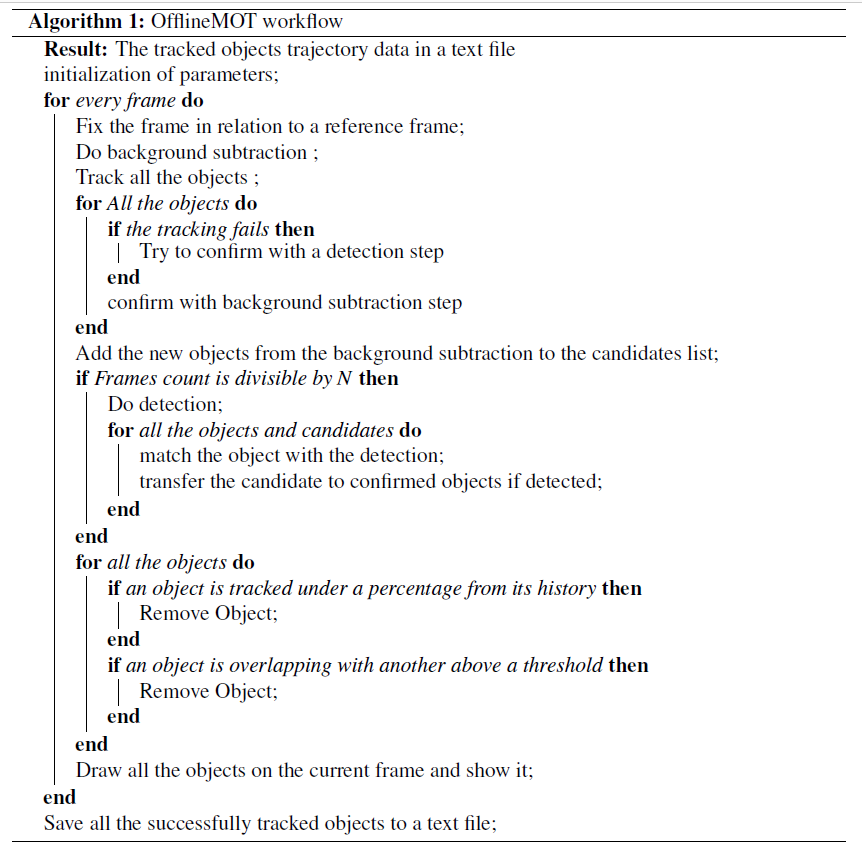
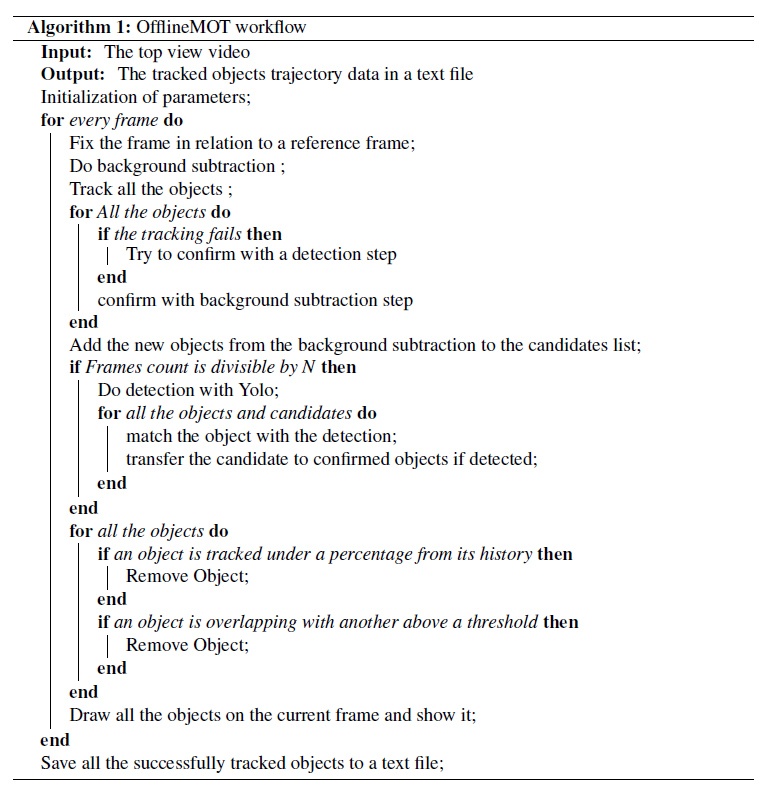
paper editing

Changed region(s): [[0.0, 0.0, 0.9909, 0.9987]]

diff --git a/paper/paper.md b/paper/paper.md
@@ -10,8 +10,13 @@ authors:
   - name: Yasin Maan Yousif
     orcid: 0000-0002-5282-7259
     affiliation: 1
+  - name: Awad Mukbil
+    affiliation: 1
+  - name: Jörg Müller
+    affiliation: 1
+
 affiliations:
- - name: Technische Universität Clausthal, Clausthal-Zellerfeld, Germany.
+ - name: Institut für Informatik, Technische Universität Clausthal 38678, Clausthal-Zellerfeld, Germany
    index: 1
 date: 28 November 2021
 bibliography: paper.bib
@@ -19,33 +24,35 @@ bibliography: paper.bib
 
 # Summary
 
-The topic of multi objects tracking (MOT) is still considered an open research area [@MOTChallenge2015].
-Among the many available methods for this problem it is worth mentioning *Deep Sort* [@wojke2017simple], where a detection and tracking steps is done in real time and for different types of scenes and areas (for example on pedestrians movement or for cars tracking). 
+The topic of multi objects tracking (MOT) is still considered an open research area [@MOTChallenge20].
+Among the many available methods for this problem, it is worth mentioning *Deep Sort* [@wojke2017simple], where a detection and tracking steps is done in real time and for different types of scenes and areas (for example on pedestrian movement or for vehicles tracking). Another state-of-the-art method is *Tracktor* [@bergmann2019tracking], where tracking is done by repetitive detections on all the frames in the video. 
 
-The importance of the problem comes from the many applications which includes, self-driving cars software, traffic analysis, animals’ movement analysis, or general surveillance applications.  
-Unfortunately, due to the variety of scenes and contexts and due to the time constrains that are needed for some applications (for example, self-driving cars), there is no one general solution that is able to work reasonably for all the cases.
+The importance of the problem comes from the many applications, which include self-driving cars software, traffic analysis, or general surveillance applications.  
+Unfortunately, due to the variety of scenes and contexts and due to the time constrains that are needed for some applications (for example, self-driving cars), there is no one general solution that is able to work perfectly for all the cases. 
 
- `OfflineMOT` ,the package introduced here ,tries to provide a solution to a more restricted problem, namely bird’s eye stationary videos without real-time condition. It applies mainly three techniques for detection and tracking on three different priority levels.
+For example, for the two cases of a moving camera recording side view of a road traffic, and a drone camera recording from above, there are many different challanges that should be addressed for each case. Making one method for both cases, make the method less effective for each case alone. 
 
-- First level is **background subtraction**. It is a fast method to find what pixels have changed in the image (the forground), and this is plausable because of the stationary condition. Otherwise, if the drone is moving freely, then the background will be less learnable. 
+ `OfflineMOT`, the package introduced here, tries to provide a solution to a more restricted problem, namely bird’s eye stationary videos without real-time condition. It applies mainly three techniques for detection and tracking on three different priority levels.
+
+- The first level is **background subtraction**. It is a fast method to find what pixels have changed in the image (the forground), and this is plausable because of the stationary condition. Otherwise, if the drone is moving freely, then the background will be less learnable. 
 Another problem here is the subtle movement of the drone due to wind and control noise. To solve this, a program for fixing the view is implemented. It depends on matching the background features with every next frame, and then transforming the frame if big movement is detected.
 
-- Second level is **multi-objects tracking** methods such as *kernelized correlation filters* (KCF) [@henriques2014high]. This method takes the output of the detection with the next frame and it finds where the objects will be. It can also return the failure or success states of tracking.
+- The second level is **multi-objects tracking** methods such as *kernelized correlation filters* (KCF) [@henriques2014high]. This method takes the output of the detection with the next frame and it finds where the objects will be. It can also return failure or success states of tracking.
 
-- Third level is the normal **deep learning-based detection and classification** of the objects. Here *Yolo-v4* [@yolov4] is used as a model structure of which training is done separately. The code used to implement, load and train Yolo structure is taken from this project [@Tianxiaomo] 
+- The third level is the **deep learning-based detection and classification** of the objects. Here *Yolo-v4* [@yolov4] is used as a model structure of which training is done separately. The code used to implement, load and train Yolo structure is taken from [@Tianxiaomo] 
 
-Finally, all these parts are implemented separately in the code, making it easy to enable or disable some or parts of them, with many tunable parameters. This is done in purpose in order to facilitate the processing on any new video with different settings by changing only a few parameters.
+Finally, all these parts are implemented separately in the code, making it easy to enable or disable some or parts of them, with many tunable parameters. This is done on purpose to facilitate the processing on any new video with different settings by changing only a few parameters.
 
-The following pesudo code \autoref{fig:workflow} is summarizing the main workflow implemented in this project.
+The following pesudo code \autoref{fig:workflow} illustrating the main workflow implemented in this project.
 
 ![The general workflow of the method.\label{fig:workflow}](workflow.PNG)
 
 # Statement of need
 
-The specific case for extracting trajectories of traffic videos (for pedestrians, cyclists and vehicles) lacks targeted  open source solutions in the literature. 
+The specific case for extracting trajectories from top view, stationary traffic videos (for pedestrians, cyclists and vehicles) lacks targeted open source solutions in the literature. 
 Therefore, the development of this package is directed towards helping researchers in the field of traffic analysis or any other fields where trajectories of moving objects are needed.  
 
-This project was used to extract the trajectories from a dataset of the cyclists’ behavior in TU Clausthal successfully. The dataset itself will be published later publicly.
+With the help of this package, the trajectories from a dataset of the cyclists’ behavior in TU Clausthal were extracted successfully. The dataset itself will be published later.
 
 # Example Usage
 
@@ -55,9 +62,9 @@ Additionally, a few requirements should be installed at the start. This can be d
 ```
 $ pip install -r requirements.txt
 ```
-The main libraries which are used includes, *OpenCV* [@opencv_library], *Numpy* [@harris2020array], *scikit-image* [@van2014scikit] , and *pytorch* [@NEURIPS2019_9015].
+The main libraries which are used include, *OpenCV* [@opencv_library], *Numpy* [@harris2020array], *scikit-image* [@van2014scikit] , and *pytorch* [@NEURIPS2019_9015].
 
-The main functionality of the package can be tested using any drone video or the included demo video by running the following command inside the main directory:
+The main functionality of the package can be tested using any bird's eye view and stationary video like the included demo video by running the following command inside the main directory:
 
 ```
 $ python main.py -v docs\sample.mp4
@@ -68,13 +75,13 @@ The `-v` flag is here to set the directory of the input video. The demo video of
 Several tests with the values of the parameters in `config.py` maybe needed in order to get the best results. 
 
 A window of the real tracking status will be shown. This frame by frame result is useful for debugging. However this is not the final results of tracking, because several post processing operations will be done after finishing processing the video. 
-Finally, a text file containing the results by the same name as the video will appear in the `outputs` folder. 
+Finally, a text file containing the results named with the same name as the video will appear in the `outputs` folder. 
 
 For example, for the previous command the following content is shown in the first line inside `sample.txt`:
 
 ` 39 || [3748, 964, 169, 73] || 2 || 5 || -137`
 
-This line means that in frame number 39, there is a box of dimensions [169,73] with top-left point whose coordinates are [3748,964]. It is classified as 2 (cyclist), numbered with id 5 and his orientation angel is -137 degree.
+This line means that in frame number 39, there is a box of dimensions [169,73] with top-left point with coordinates of [3748,964]. It is classified as 2 (cyclist), numbered with id 5 and its orientation angle is -137 degrees.
 
 In order to view the final result, the same processing command can be run but with a change of the name of the script as follows:
 
@@ -88,7 +95,7 @@ Further documentations and information about the running are available in the `d
 
 # Scope
 
-The scope of the problems that can be handeled by this package is defined by the following conditions:
+The scope of the problems that can be handled by this package is defined by the following conditions:
 
 1.	*is the video Stationary?*
 2.	*is the real time performance required?*
@@ -101,6 +108,7 @@ Regarding the last point, the provided model with the package is trained on rand
 
 If the video is too noisy, has low resoluation, or the training dataset detection is very different from the video background and objects, then errors in tracking can happen.
 
-As an example, the sample video has some problems with one moving object, becuase of the different background and the new scene of the video. This can be avoided by retraining the detection part on similar examples. Additionally, a through tunning step for the parameters in the `config` file should be done to eliminate the possible errors in the result. 
+As an example, the sample video has some problems with one moving object, because of the different background and the new scene of the video. This can be avoided by retraining the detection part (Yolo network) on similar examples. Additionally, a thorough tunning step for the parameters in the `config` file should be done to eliminate possible errors in the result. 
+
 
 # References
